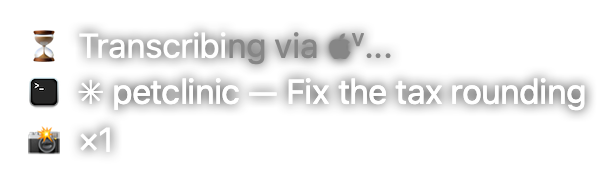
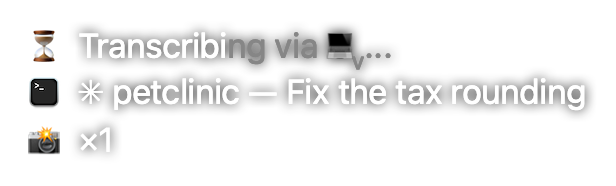
Chip: the local model is 💻 (not the apple), the LoRA v is a subscript

Changed region(s): [[0.5244, 0.1344, 0.6169, 0.4032]]

diff --git a/docs/overlay-states.html b/docs/overlay-states.html
@@ -454,7 +454,7 @@
         </header>
         <div class="shot"><img src="states/transcribing-lora.png" width="308" height="93" style="opacity:0.8" alt="…on Victor&#x27;s own model"></div>
         <p class="when">The wait, when the local model is the Engine and its weights are the LoRA trained on his voice.</p>
-        <p class="note"><strong>A small <code>ᵛ</code> after the Apple mark</strong> (2026-10-04, Victor: <em>&quot;pune un v mic după acel măr … dacă e modelul meu cu Lora&quot;</em>) — on <code>Transcribing via</code> and on the listening row&#x27;s arrow alike. A modifier letter, so it is small and raised in the font itself, and it fills with the bar like the letters round it. The published Turbo weights wear the bare apple.</p>
+        <p class="note"><strong>A subscript <code>ᵥ</code> after the local model&#x27;s 💻</strong> (2026-10-04, Victor: <em>&quot;pune un v mic după acel măr … dacă e modelul meu cu Lora&quot;</em>, then <em>&quot;ca indice&quot;</em>, and the apple became the laptop: <em>&quot;ca să se înțeleagă local&quot;</em>) — on <code>Transcribing via</code> and on the listening row&#x27;s arrow alike. Small and lowered in the font itself, and it fills with the bar like the letters round it. The published Turbo weights wear the bare laptop.</p>
         <code class="slug">transcribing-lora</code>
       </section>
       <section class="card" id="transcribing-local-now">
@@ -706,9 +706,9 @@
       <section class="card" id="prompt-long">
         <header>
           <h3>A long transcript</h3>
-          <div class="tags"><span class="tag tag-panel" title="top-left of the screen, blurred, full opacity, ✕ on hover">panel</span><span class="tag">alpha 1.00</span><span class="tag">640×136 pt</span></div>
+          <div class="tags"><span class="tag tag-panel" title="top-left of the screen, blurred, full opacity, ✕ on hover">panel</span><span class="tag">alpha 1.00</span><span class="tag">576×136 pt</span></div>
         </header>
-        <div class="shot"><img src="states/prompt-long.png" width="640" height="136" style="opacity:1" alt="A long transcript"></div>
+        <div class="shot"><img src="states/prompt-long.png" width="576" height="136" style="opacity:1" alt="A long transcript"></div>
         <p class="when">A sentence that does not fit one line — the panel wraps and grows.</p>
         <p class="note">Width is capped at a third of the screen and the height at what is left of it; the transcript row is measured by asking the label, not by a parallel calculation, because any disagreement is a sentence that silently stops.</p>
         <code class="slug">prompt-long</code>
@@ -745,7 +745,7 @@
       </section>
     </div>
 <footer>
-  Generated from <code>OverlayStates.swift</code> · repo at e6c8d8d · 03 Oct 2026 · built 04 Oct 2026, 09:57
+  Generated from <code>OverlayStates.swift</code> · repo at 6bcbfdd · 04 Oct 2026 · built 04 Oct 2026, 10:03
 </footer>
 <button class="toggle" onclick="document.body.classList.toggle('light')">Backdrop: dark / light</button>
 </body>

diff --git a/Sources/WalkieTalkie/Glyphs.swift b/Sources/WalkieTalkie/Glyphs.swift
@@ -872,11 +872,12 @@ extension Glyphs {
         case mac = "\u{E013}"
     }
 
-    /// **The small `v` after the Apple mark: the local model is Victor's LoRA**
-    /// (2026-10-04). A modifier letter, so it is already small and raised in
-    /// the font; the chip draws it as a letter of the row, not a picture,
-    /// filling with the bar like the words round it.
-    static let loraMark: Character = "\u{1D5B}"
+    /// **The small `v` after the local model's mark: the weights are Victor's
+    /// LoRA** (2026-10-04) — **a subscript** (*"pune V-ul acela ca indice"*;
+    /// it was the raised `ᵛ` for an hour). Small and lowered in the font itself;
+    /// the chip draws it as a letter of the row, not a picture, filling with
+    /// the bar like the words round it.
+    static let loraMark: Character = "\u{1D65}"
 
     /// The logo for a character that names one, or nil for anything else — the
     /// form the chip calls, because the chip is handed a string and never an
@@ -902,7 +903,12 @@ extension Glyphs {
         // `emoji` for that function's own reason: it trims to the ink and
         // returns a square of exactly the size every other glyph on the row
         // gets, which is what makes the lot line up.
-        case .mac: return emoji("\u{F8FF}", ink: ink, colour: colour)
+        //
+        // **A laptop, not the apple, since 2026-10-04** (Victor: *"în loc de măr
+        // pune laptop ca să se înțeleagă local"*) — the apple named a vendor,
+        // the laptop says *this machine*. A colour emoji, so it ignores the ink
+        // and stays lit through the bar, like the device emoji.
+        case .mac: return emoji("💻", ink: ink, colour: colour)
         }
     }
 

diff --git a/Sources/WalkieTalkie/OverlayStates.swift b/Sources/WalkieTalkie/OverlayStates.swift
@@ -357,7 +357,7 @@ enum OverlayStates {
 
             Shot(slug: "transcribing-lora", group: "Dictating", title: "…on Victor's own model",
                  when: "The wait, when the local model is the Engine and its weights are the LoRA trained on his voice.",
-                 note: "**A small `ᵛ` after the Apple mark** (2026-10-04, Victor: *\"pune un v mic după acel măr … dacă e modelul meu cu Lora\"*) — on `Transcribing via` and on the listening row's arrow alike. A modifier letter, so it is small and raised in the font itself, and it fills with the bar like the letters round it. The published Turbo weights wear the bare apple.",
+                 note: "**A subscript `ᵥ` after the local model's 💻** (2026-10-04, Victor: *\"pune un v mic după acel măr … dacă e modelul meu cu Lora\"*, then *\"ca indice\"*, and the apple became the laptop: *\"ca să se înțeleagă local\"*) — on `Transcribing via` and on the listening row's arrow alike. Small and lowered in the font itself, and it fills with the bar like the letters round it. The published Turbo weights wear the bare laptop.",
                  shape: "chip", alpha: 0.80) { o in
                 o.setBound(label: "petclinic", folder: "petclinic@main", title: "✳ petclinic — Fix the tax rounding", icon: terminal)
                 o.setEngineMark(" via \(Glyphs.Engine.mac.rawValue)\(Glyphs.loraMark)")

diff --git a/Sources/WalkieTalkie/AppDelegate.swift b/Sources/WalkieTalkie/AppDelegate.swift
@@ -294,7 +294,8 @@ final class AppDelegate: NSObject, NSApplicationDelegate {
     }
 
     /// **The logo the chip wears while that engine is listening** — ElevenLabs'
-    /// pause-in-a-ring, Wispr Flow's five bars, the Apple mark for the model
+    /// pause-in-a-ring, Wispr Flow's five bars, a laptop (the Apple mark until
+    /// 2026-10-04) for the model
     /// that runs on this Mac. Victor, 2026-09-22: *"în loc de litera care
     /// urmează, aș vrea să am logo-ul lor stilizat cu gri. Exact culoarea
     /// fontului."*
@@ -319,7 +320,7 @@ final class AppDelegate: NSObject, NSApplicationDelegate {
     /// this is already a bug somewhere above.
     private static func engineMark(_ id: String) -> String {
         switch id {
-        // **A small `ᵛ` after the Apple mark when the weights are Victor's
+        // **A subscript `ᵥ` after the laptop when the weights are Victor's
         // LoRA** (2026-10-04, Victor: *"pune un v mic după acel măr … dacă e
         // modelul meu cu Lora"*). Read from the pick, which the helper loads at
         // the next idle moment — the same moment this mark is next pushed.

diff --git a/.claude/rules/overlay-chip.md b/.claude/rules/overlay-chip.md
@@ -214,8 +214,8 @@ yields to `--label`).
   simbolul microfonului in fata, inainte de Dictating/Prompting"*). `AppDelegate.pushMicMark` sends
   the device to `RelayWindow.setRecordDevice` (its emoji on `walkie-bound.png`'s two oranges, at
   `walkieDeviceShare`) and only `→ <logo>` to `setMicMark`; an unknown device keeps the walkie. The
-  row reads `🎤(disc) Prompting → ⬮...`. **The local model's apple wears a small `ᵛ`
-  (`Glyphs.loraMark`, U+1D5B) when the weights are not the published Turbo** — drawn as a letter,
+  row reads `🎤(disc) Prompting → ⬮...`. **The local model's mark is 💻 (the Apple mark until 2026-10-04) and wears a subscript `ᵥ`
+  (`Glyphs.loraMark`, U+1D65) when the weights are not the published Turbo** — drawn as a letter,
   filling with the bar (state `transcribing-lora`). The film row's icon is 🎞 (📹 until 2026-10-04).
 - **`Listening to 🎤 → ⬮...` since 2026-09-24** (the device moved into the disc on 2026-10-04, above) — the listening row names the recogniser too, after an
   arrow (*"place an arrow and then specify as well the transcription engine"*). Wispr's five bars
